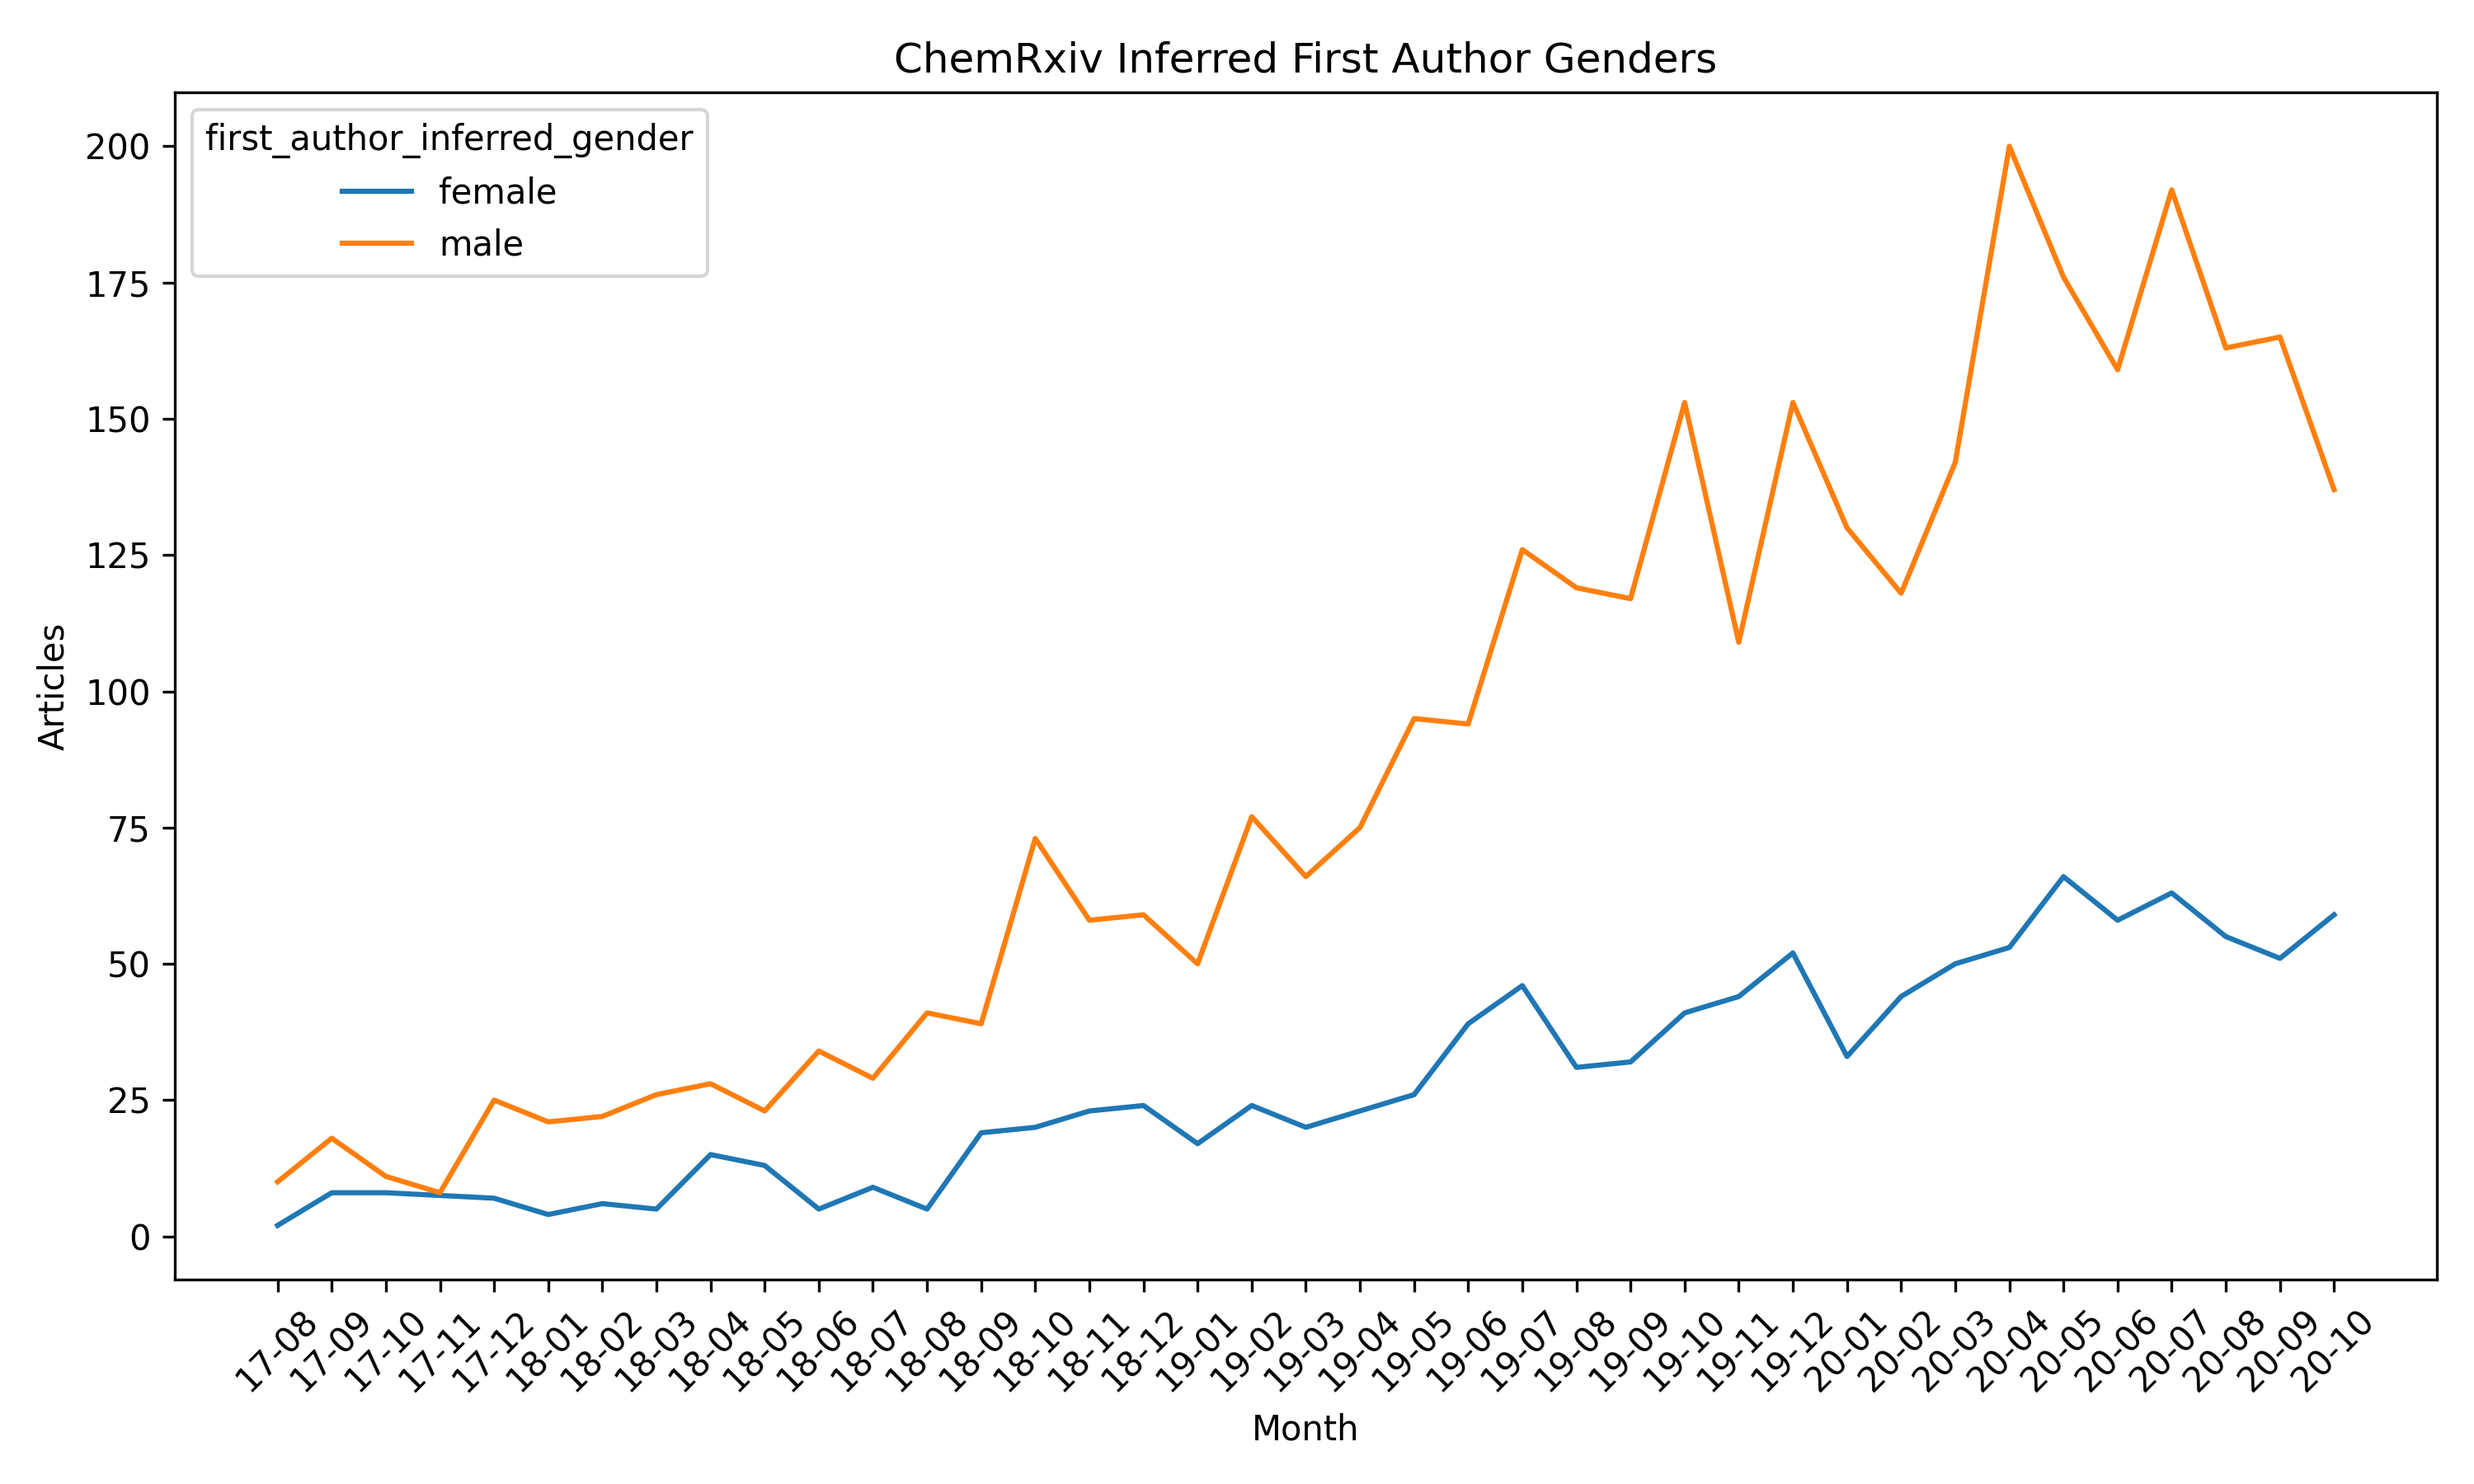
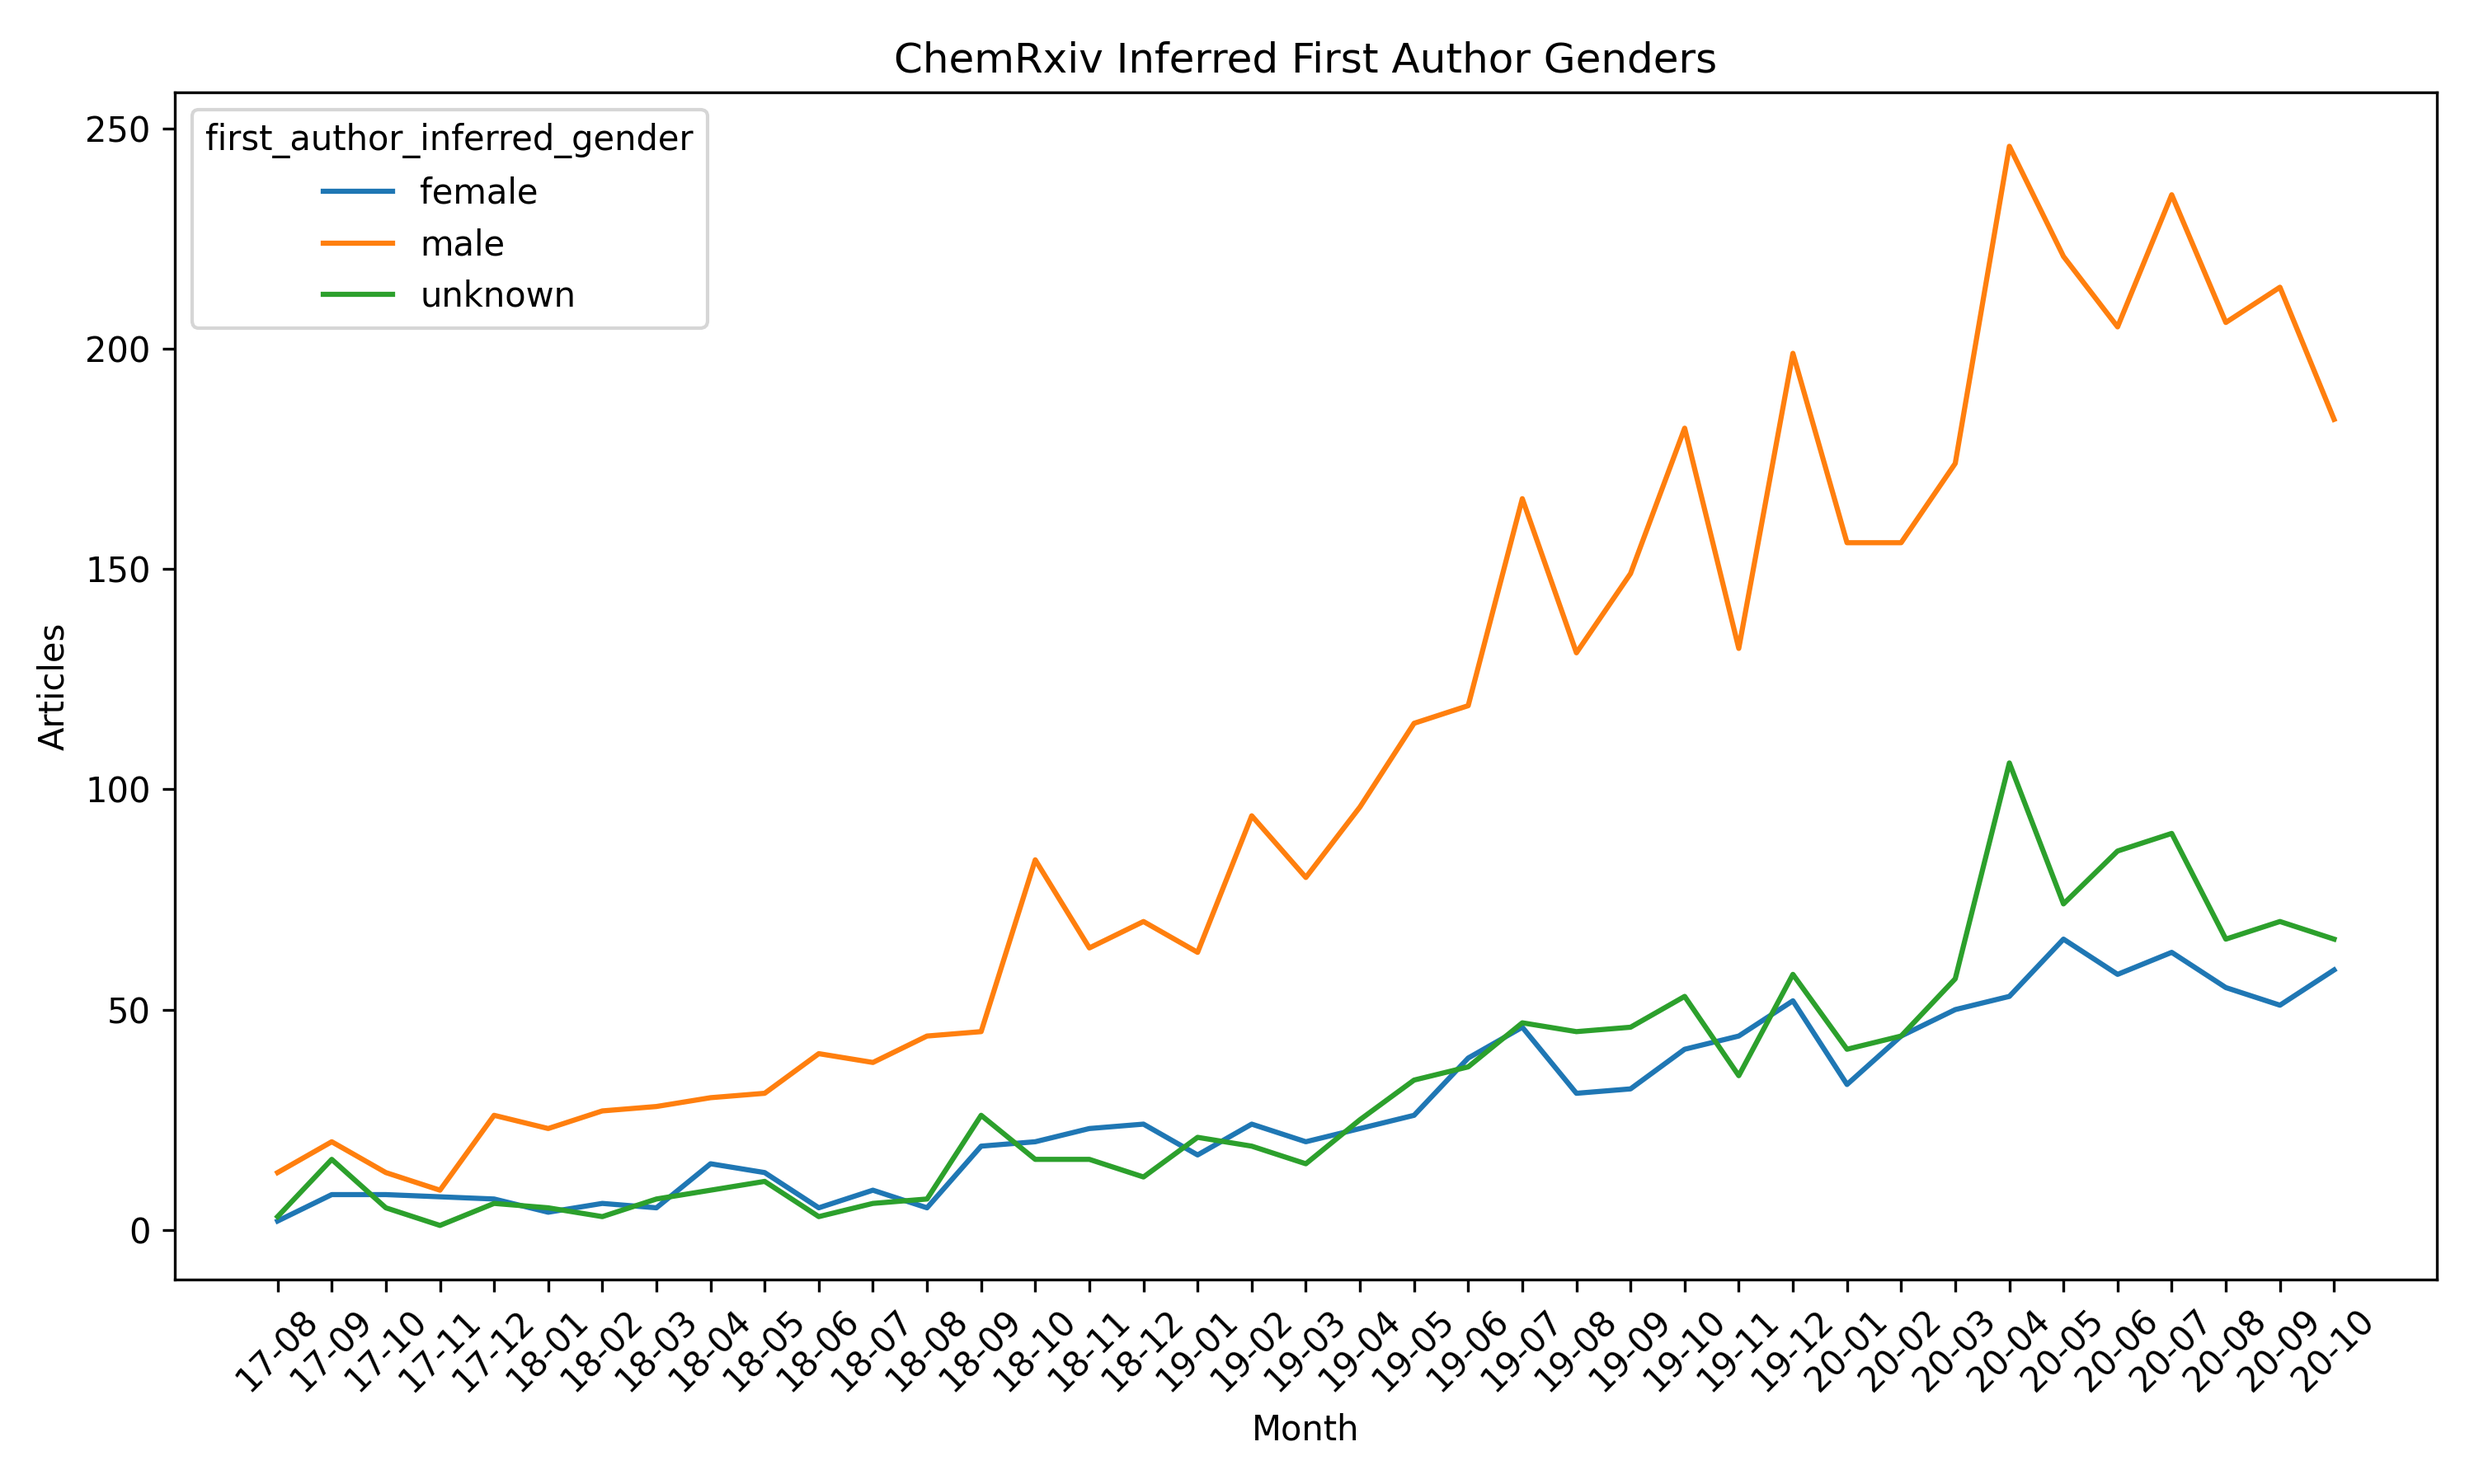
Add better handling of names assigned androgenous and unknown

diff --git a/03_visualize.py b/03_visualize.py
@@ -6,7 +6,7 @@ import matplotlib.pyplot as plt
 import pandas as pd
 import seaborn as sns
 
-from utils import FigshareClient, HERE, remove_current_month, token_option
+from utils import FigshareClient, HERE, prepare_genders, remove_current_month, token_option, assign_andy
 
 
 def plot_papers_by_month(df, directory, institution_name):
@@ -117,17 +117,11 @@ def plot_cumulative_licenses(df, directory, institution_name):
     plt.savefig(os.path.join(directory, 'historical_licenses.png'), dpi=300)
 
 
-def _prepare_genders(df):
-    df = remove_current_month(df)
-    df.loc[df['first_author_inferred_gender'] == 'mostly_male', 'first_author_inferred_gender'] = 'male'
-    df.loc[df['first_author_inferred_gender'] == 'mostly_female', 'first_author_inferred_gender'] = 'female'
-    return df[df['first_author_inferred_gender'].isin({'male', 'female'})]
-
-
 def plot_gender_evolution(df, directory, institution_name):
     plt.figure(figsize=(10, 6))
 
-    df = _prepare_genders(df)
+    df = prepare_genders(df)
+    assign_andy(df)
     data = df.groupby(['time', 'first_author_inferred_gender']).count()['id'].reset_index()
     sns.lineplot(data=data, x='time', y='id', hue='first_author_inferred_gender')
 
@@ -141,13 +135,13 @@ def plot_gender_evolution(df, directory, institution_name):
 
 def plot_gender_male_percentage(df, directory, institution_name):
     plt.figure(figsize=(10, 6))
-    df = _prepare_genders(df)
+    df = prepare_genders(df)
     nd = df.groupby(['time', 'first_author_inferred_gender']).count()['id'].reset_index().pivot(
         index='time',
         columns='first_author_inferred_gender',
         values='id'
     ).fillna(0).astype(int)
-    nd['ratio'] = nd['male'] / (nd['male'] + nd['female'])
+    nd['ratio'] = (nd['male'] + 0.5 * nd['andy']) / (nd['male'] + nd['female'] + nd['andy'])
     sns.lineplot(data=nd, x='time', y='ratio')
     plt.xticks(rotation=45)
     plt.title(f'{institution_name} Inferred First Author Male Percentage')

diff --git a/utils.py b/utils.py
@@ -184,9 +184,31 @@ def get_df(directory: str, exclude_current_month: bool = False) -> pd.DataFrame:
     return df
 
 
-def remove_current_month(df):
+def remove_current_month(df: pd.DataFrame) -> pd.DataFrame:
     today = datetime.date.today()
-    return df[df['time'] != f'{today.year - 2000}-{today.month:02}']
+    df = df[df['time'] != f'{today.year - 2000}-{today.month:02}']
+    return df
+
+
+def prepare_genders(df: pd.DataFrame) -> pd.DataFrame:
+    df = remove_current_month(df)
+    df.loc[df['first_author_inferred_gender'] == 'mostly_male', 'first_author_inferred_gender'] = 'male'
+    df.loc[df['first_author_inferred_gender'] == 'mostly_female', 'first_author_inferred_gender'] = 'female'
+    return df
+
+
+def assign_andy(df):
+    x = (df['first_author_inferred_gender'] == 'andy').count()
+    counter = 0
+
+    def _assign_andy(s: str) -> str:
+        if s != 'andy':
+            return s
+        if counter < x // 2:
+            return 'male'
+        return 'female'
+
+    df['first_author_inferred_gender'] = df['first_author_inferred_gender'].map(_assign_andy)
 
 
 def clean_orcid(x: str) -> str:

diff --git a/README.md b/README.md
@@ -74,17 +74,18 @@ The [gender-guesser](https://pypi.org/project/gender-guesser/) package
 was used to infer authors' genders based on their first name. This
 obviously comes with the caveat that some names can't be automatically
 assigned to the male/female dichotomy. The "mostly male" and "mostly female"
-results were respectively grouped with the male and female names, while
-the androgenous and unknown names were excluded.
+results were respectively grouped with the male and female names. The
+"androgenous" results were evenly split between male and female. 
 
-The first chart shows both the male and female first author frequencies
-by month.
+The first chart shows the first author frequencies inferred as male,
+female, and unknown.
 
 ![Genders of First Authors by Month](genders_by_month.png)
 
 This chart shows the percentage of male first authors with respect
 to male + female first authors. It shows that even as the number of
 submissions changes, the ratio still is quite skewed towards male
-first authorship.
+first authorship. Notably, there are no change in patterns during
+the first COVID-19 pandemic lockdown (April-August 2020).
 
 ![Male Percentage by Month](male_percentage_by_month.png)
